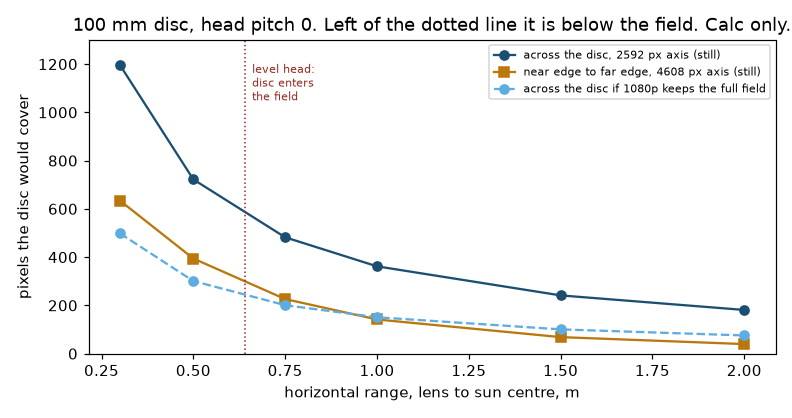
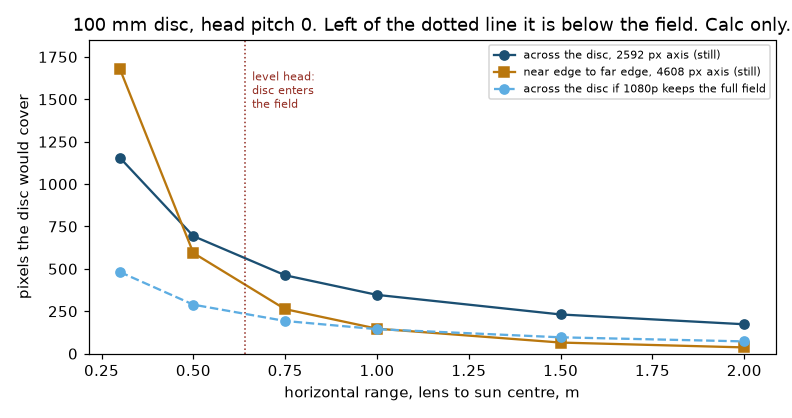
Count disc pixels on the pinhole image plane.
The rectangular field is rectilinear. A point's place on an axis is c[axis]/c[2], times the pixel count over twice the tangent of the half angle. The head-down 0.75 m near-to-far size is 187 pixels. Which samples fall inside the field did not change.

diff --git a/altaay_lab/twin/complete3d/camera_cone.py b/altaay_lab/twin/complete3d/camera_cone.py
@@ -275,35 +275,46 @@ def summarise(rows, kind):
 
 
 def pixel_pair(origin, R, sun):
-    """pixels across the 100 mm disc: lateral on the 2592 axis, near-to-far on the 4608 axis."""
+    """pixels across the 100 mm disc on a rectilinear sensor.
+
+    The rectangular field is a pinhole: image position is c[axis] / c[2], and the
+    half-width of the sensor is tan of the half angle. Lateral is the 2592 axis
+    (41 deg, left-right). Near-to-far is the 4608 axis (66 deg, up-down).
+    """
     left = sun + np.array([0.0, SUN_R_MM, 0.0])
     right = sun + np.array([0.0, -SUN_R_MM, 0.0])
     near = sun + np.array([-SUN_R_MM, 0.0, 0.0])   # toward the duck when the duck looks along +x and the sun is ahead
     far = sun + np.array([SUN_R_MM, 0.0, 0.0])
-    # if the sun is behind the camera, near/far along +x is not "near the duck"; use the closer and farther points
-    def ang(a, b, axis):
-        da, db = a - origin, b - origin
-        # angle between the two rays, projected on the camera axis (the sensor axis)
-        def comp(d):
-            c = R.T @ d
-            return np.arctan2(c[axis], c[2])
-        return abs(comp(da) - comp(db))
 
-    lat = ang(left, right, 1)     # camera Y, 41 deg, 2592 px
-    dep = ang(near, far, 0)       # camera X, 66 deg, 4608 px
+    def span(a, b, axis, n_pix, half):
+        def u(p):
+            c = R.T @ (np.asarray(p, float) - origin)
+            if c[2] <= 1e-9:
+                return None
+            return c[axis] / c[2]
+        ua, ub = u(a), u(b)
+        if ua is None or ub is None:
+            return None
+        return abs(ua - ub) * (n_pix / (2.0 * np.tan(half)))
+
+    px_lat = span(left, right, 1, PIX_HV[1], HY)
+    px_dep = span(near, far, 0, PIX_HV[0], HX)
     slant = float(np.linalg.norm(sun - origin))
-    # facing-camera upper bound: the full diameter perpendicular to the ray, on each axis
-    face_lat = 2 * SUN_R_MM / slant / (2 * HY / PIX_HV[1]) if slant else None
-    face_dep = 2 * SUN_R_MM / slant / (2 * HX / PIX_HV[0]) if slant else None
-    px_lat = lat / (2 * HY / PIX_HV[1])
-    px_dep = dep / (2 * HX / PIX_HV[0])
+    # a disc of this diameter in a plane facing the camera, at the sun's camera-z (calc only, an upper bound)
+    cz = float((R.T @ (sun - origin))[2])
+    face_lat = (2 * SUN_R_MM / cz) * (PIX_HV[1] / (2.0 * np.tan(HY))) if cz > 1e-9 else None
+    face_dep = (2 * SUN_R_MM / cz) * (PIX_HV[0] / (2.0 * np.tan(HX))) if cz > 1e-9 else None
+    def rnd(v):
+        return None if v is None else round(float(v), 1)
+
     return dict(slant_mm=round(slant, 1),
-                lateral_px_still=round(float(px_lat), 1),
-                depth_px_still=round(float(px_dep), 1),
-                face_on_lateral_px=round(float(face_lat), 1),
-                face_on_depth_px=round(float(face_dep), 1),
-                lateral_px_1080_scale=round(float(px_lat * 1080 / PIX_HV[1]), 1),
-                depth_px_1080_scale=round(float(px_dep * 1920 / PIX_HV[0]), 1))
+                lateral_px_still=rnd(px_lat),
+                depth_px_still=rnd(px_dep),
+                face_on_lateral_px=rnd(face_lat),
+                face_on_depth_px=rnd(face_dep),
+                lateral_px_1080_scale=rnd(None if px_lat is None else px_lat * 1080 / PIX_HV[1]),
+                depth_px_1080_scale=rnd(None if px_dep is None else px_dep * 1920 / PIX_HV[0]),
+                projection="rectilinear, c[axis]/c[2] times pixels over 2 tan(half angle)")
 
 
 def approach(origin, R, mesh, toe, ranges, side_mm=0.0):
@@ -486,12 +497,12 @@ def save_figs(pack):
     ax.plot(rr, [r["pixels"]["lateral_px_1080_scale"] for r in pack["approach_centre"]], "o--", color="#5dade2",
             label="across the disc if 1080p keeps the full field")
     ax.axvline(0.64, color="#922b21", lw=1, ls=":")
-    ax.text(0.66, 1050, "level head:\ndisc enters\nthe field", fontsize=7, color="#922b21")
+    ax.text(0.66, 1450, "level head:\ndisc enters\nthe field", fontsize=7, color="#922b21")
     ax.set_xlabel("horizontal range, lens to sun centre, m")
     ax.set_ylabel("pixels the disc would cover")
     ax.set_title("100 mm disc, head pitch 0. Left of the dotted line it is below the field. Calc only.")
     ax.legend(fontsize=7, loc="upper right")
-    ax.set_ylim(0, 1300)
+    ax.set_ylim(0, 1850)
     fig.tight_layout()
     finish(fig, "pixels_range.png")
     return paths

diff --git a/altaay_lab/twin/camera/CAMERA_TWIN.md b/altaay_lab/twin/camera/CAMERA_TWIN.md
@@ -80,16 +80,16 @@ In every row the body blocks 0 floor cells that are already inside the field (CA
 
 The sun is the 100 mm gold disc. The ring is pale gold from radius 82 mm to 235 mm, cut on the wall side (56 mm from the wall, wall 190 mm past the sun). Those sizes are the nest CAD (twin/dock/nest/cad/NEST_CAD.md, CAD check only). The duck faces the sun. Range is the horizontal distance from the lens opening to the sun centre. "Seen" means the sample is inside the 66 by 41 rectangle, the body is not in the way, and the slant is past the 10 cm focus limit. The disc has 13 samples (centre and 12 on the rim). The ring has 27 samples after the wall cut.
 
-Level head, on the centre line (CAD check only). Pixel counts are calc only, from the brief's angles and 4608 by 2592. "Across" is the left-right axis (2592 pixels). "Near to far" is the up-down axis (4608 pixels), foreshortened because the disc lies on the floor.
+Level head, on the centre line (CAD check only). Pixel counts are calc only. The sensor is rectilinear: a point's place on an axis is its camera-frame ratio along that axis, times the pixel count over twice the tangent of the half angle. Equal degrees are not equal pixels. "Across" is the left-right axis (2592 pixels, 41 degrees). "Near to far" is the up-down axis (4608 pixels, 66 degrees). The floor tilts that second axis, so the near edge and the far edge do not share a pixel scale.
 
 | Range | Toe to sun | Disc | Ring | Across, still, px | Near to far, still, px | Across if 1080p keeps the full field, px |
 |---|---|---|---|---|---|---|
-| 0.30 m | 370 mm | 0 of 13, below the field | 0 of 27 | 1196, not on the sensor | 634, not on the sensor | 499, not on the sensor |
-| 0.50 m | 570 mm | 0 of 13, below the field | 0 of 27 | 722, not on the sensor | 394, not on the sensor | 301, not on the sensor |
-| 0.75 m | 820 mm | 13 of 13 | 22 of 27 | 482 | 226 | 201 |
-| 1.0 m | 1070 mm | 13 of 13 | 27 of 27 | 362 | 142 | 151 |
-| 1.5 m | 1570 mm | 13 of 13 | 27 of 27 | 241 | 69 | 101 |
-| 2.0 m | 2070 mm | 13 of 13 | 27 of 27 | 181 | 40 | 75 |
+| 0.30 m | 370 mm | 0 of 13, below the field | 0 of 27 | 1155, not on the sensor | 1679, not on the sensor | 481, not on the sensor |
+| 0.50 m | 570 mm | 0 of 13, below the field | 0 of 27 | 693, not on the sensor | 594, not on the sensor | 289, not on the sensor |
+| 0.75 m | 820 mm | 13 of 13 | 22 of 27 | 462 | 262 | 193 |
+| 1.0 m | 1070 mm | 13 of 13 | 27 of 27 | 347 | 147 | 144 |
+| 1.5 m | 1570 mm | 13 of 13 | 27 of 27 | 231 | 65 | 96 |
+| 2.0 m | 2070 mm | 13 of 13 | 27 of 27 | 173 | 37 | 72 |
 
 The level-head disc centre crosses into the field at 0.64 m in front of the lens, 0.71 m in front of the toe (calc only from the 414.1 mm height and 33 degrees). At 0.75 m the near outer ring is still partly below the field, which is why 5 of 27 ring samples miss. From 1.0 m the whole disc and the whole ring are in, and nothing on the duck hides them.
 
@@ -97,9 +97,9 @@ Head at the -25 degree stop, on the centre line (CAD check only):
 
 | Range | Toe to sun | Disc | Ring | Across, still, px | Near to far, still, px |
 |---|---|---|---|---|---|
-| 0.30 m | 387 mm | 13 of 13 | 13 of 27 | 845 | 655 |
-| 0.50 m | 587 mm | 13 of 13 | 23 of 27 | 594 | 383 |
-| 0.75 m to 2.0 m | 837 mm to 2087 mm | 13 of 13 | 27 of 27 | 433 down to 184 | 211 down to 36 |
+| 0.30 m | 387 mm | 13 of 13 | 13 of 27 | 812 | 722 |
+| 0.50 m | 587 mm | 13 of 13 | 23 of 27 | 570 | 354 |
+| 0.75 m to 2.0 m | 837 mm to 2087 mm | 13 of 13 | 27 of 27 | 415 down to 176 | 187 down to 34 |
 
 At 0.30 m with the head down, the disc is in the field and the ring is not. The ring is 470 mm across, and the left-right field is only 41 degrees. The sides of the ring fall outside. Every slant in both tables is past 100 mm, so the 10 cm focus limit is not what hides the close disc. The angle is.
 
@@ -127,7 +127,7 @@ Section 20.9 asks for 10 of 10 at about 1 m and about 2 m, lights on and lights 
 | about 1 m, lights dim, low pack | the same | the brief has no light model. Same geometry as the row above | NOT RUN. Light is BLOCKER |
 | about 1 m, lights on, full pack | the same | pack voltage is not in this field | NOT RUN |
 | about 1 m, lights dim, full pack | the same | light and pack are both absent | NOT RUN |
-| about 2 m, lights on, low pack | the same | disc and ring are inside the field on the same terms as 1 m, and the disc covers 181 by 40 pixels in the still (calc only) | NOT RUN |
+| about 2 m, lights on, low pack | the same | disc and ring are inside the field on the same terms as 1 m. The disc covers 173 pixels across and 37 pixels from near edge to far edge in the still (calc only) | NOT RUN |
 | about 2 m, lights dim, low pack | the same | no light model | NOT RUN. Light is BLOCKER |
 | about 2 m, lights on, full pack | the same | no pack | NOT RUN |
 | about 2 m, lights dim, full pack | the same | no light, no pack | NOT RUN |
